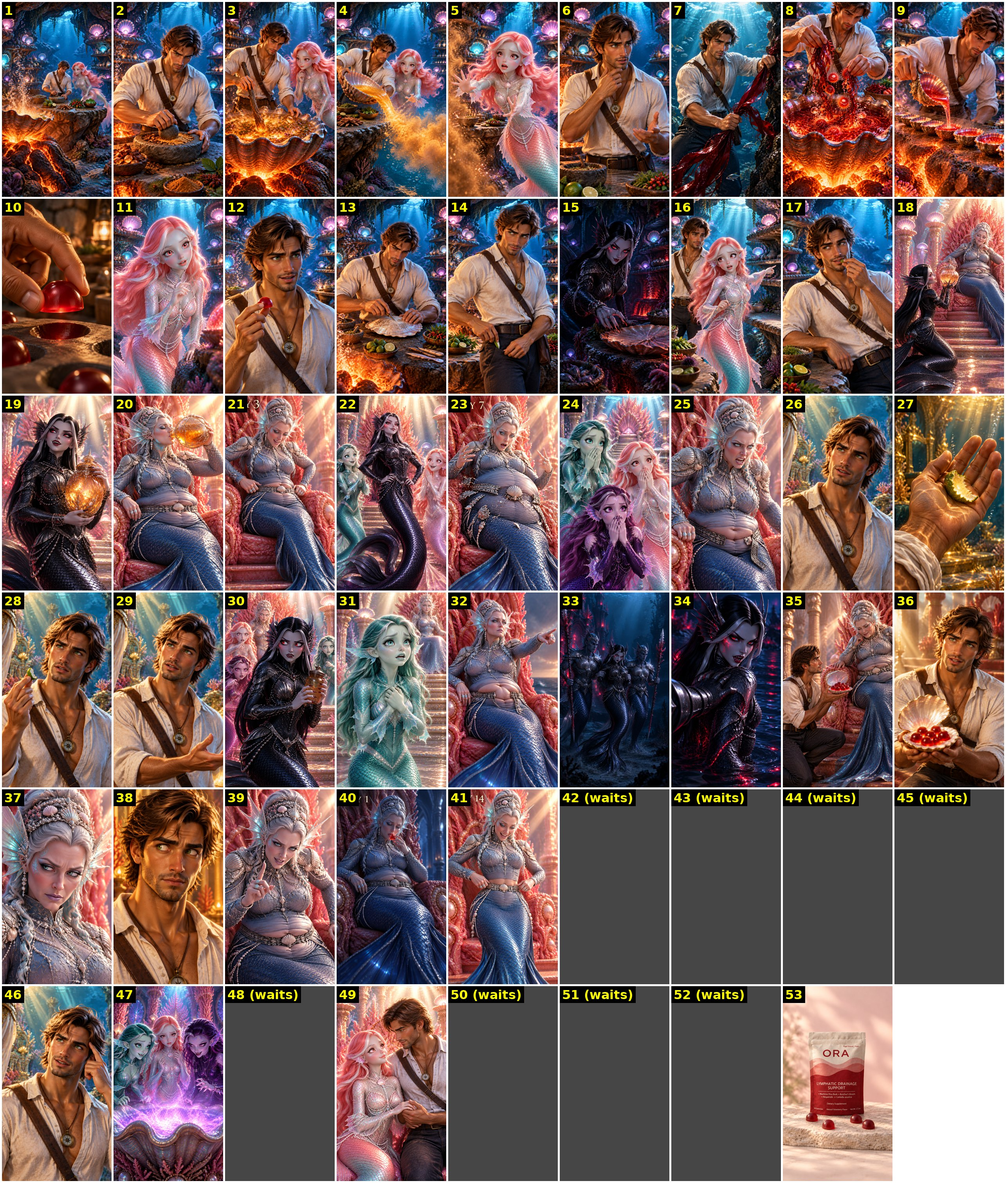
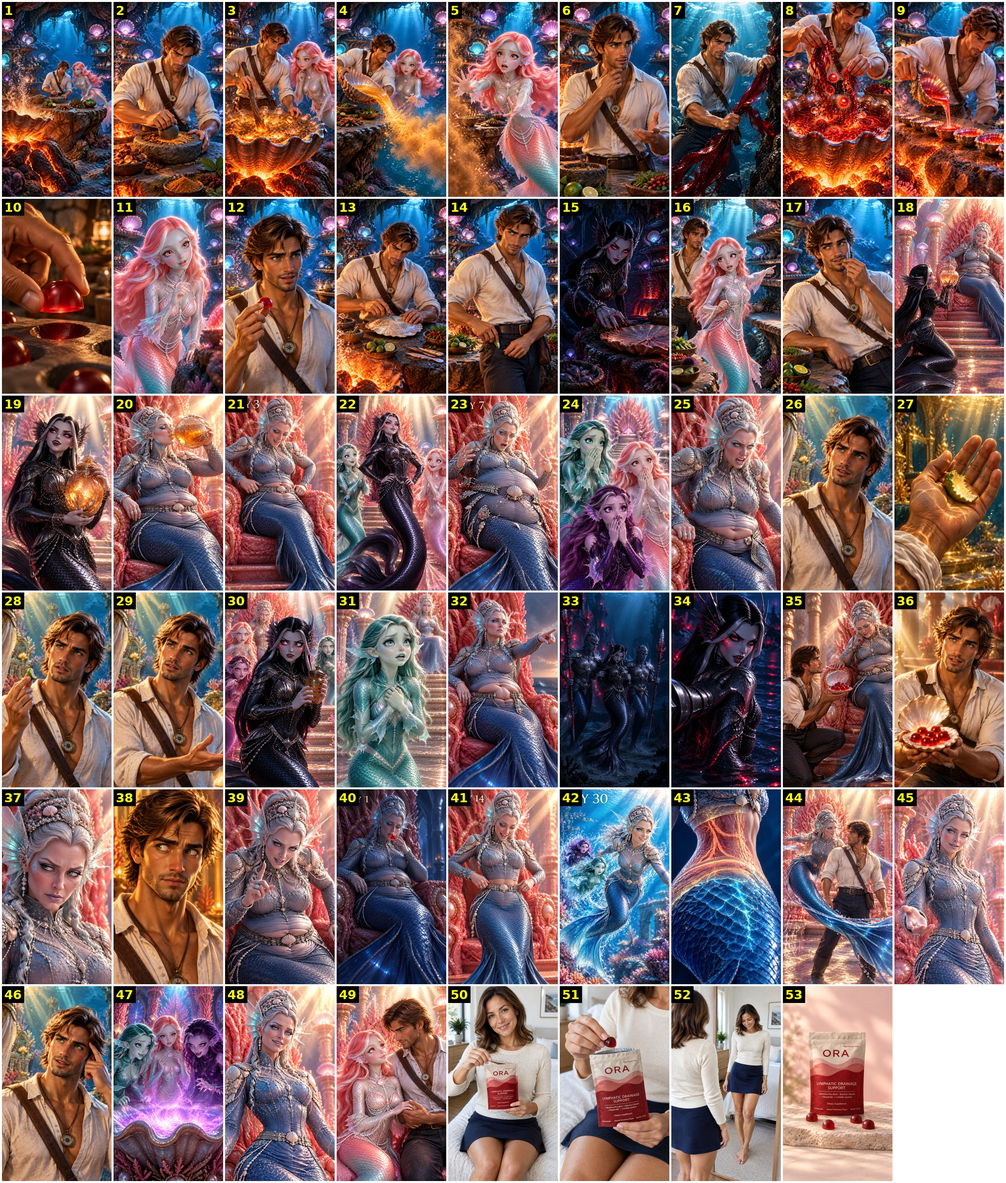
Sirens Ep 2: all 53 first frames
Claude-Session: https://claude.ai/code/session_01B91YnQnevLKqPhwBUBVUWL

Changed region(s): [[0.4358, 0.653, 1.0, 1.0], [0.2179, 0.8085, 0.3424, 1.0]]

diff --git a/projects/ora-siren-ep2/shots.md b/projects/ora-siren-ep2/shots.md
@@ -1,7 +1,6 @@
-# Enchanting Sirens Ep 2 - first frames
+# Enchanting Sirens Ep 2 - first frames (53)
 
-New masters (pending approval): QUEEN NERISSA AFTER 3f317354-9923-469f-9403-e7adc1b22514 | REAL-WORLD WOMAN 4593e49a-bae2-4b30-af98-4710145e886b
-Waiting on masters: 42, 43, 44, 45, 48, 50, 51, 52
+Masters approved: QUEEN NERISSA AFTER 3f317354-9923-469f-9403-e7adc1b22514 | REAL-WORLD WOMAN 4593e49a-bae2-4b30-af98-4710145e886b (Seq 7 = iPhone-style real look)
 
 | Clip | Frame job |
 |---|---|
@@ -46,7 +45,15 @@ Waiting on masters: 42, 43, 44, 45, 48, 50, 51, 52
 | 39 | 6003667b-c3fb-4926-b35a-05dd7d8664b8 |
 | 40 | b16d76b7-d6ee-4f61-b0a1-5366b2d75230 |
 | 41 | 102d9cff-084b-431b-a5dd-b802152a52dd |
+| 42 | b669794e-9c84-4ddc-9d03-38c443c0f04e |
+| 43 | c1863ead-a193-48d5-b61f-72ac3841c340 |
+| 44 | a88bc448-24e5-46e1-8963-54200cd30924 |
+| 45 | 190cac1b-82f4-454f-9f27-d9bdd11ddd57 |
 | 46 | fdac42b4-ce11-4cdb-a69d-403063904700 |
 | 47 | 7168a789-260c-492c-89a6-76bbf64e81bb |
+| 48 | 1a529aa4-c494-4d62-a438-d25a7e694dc3 |
 | 49 | 522c86da-9624-42c5-b985-88b937878d4d |
+| 50 | c1c89db5-3518-4181-bc01-03a0a563c666 |
+| 51 | 395d0366-f772-4f64-806f-0d3bfac49559 |
+| 52 | b533e422-4282-4159-956d-8a765e9a03a9 |
 | 53 | 85b4c400-943c-4a74-b8fe-630c37c0c2a6 |
